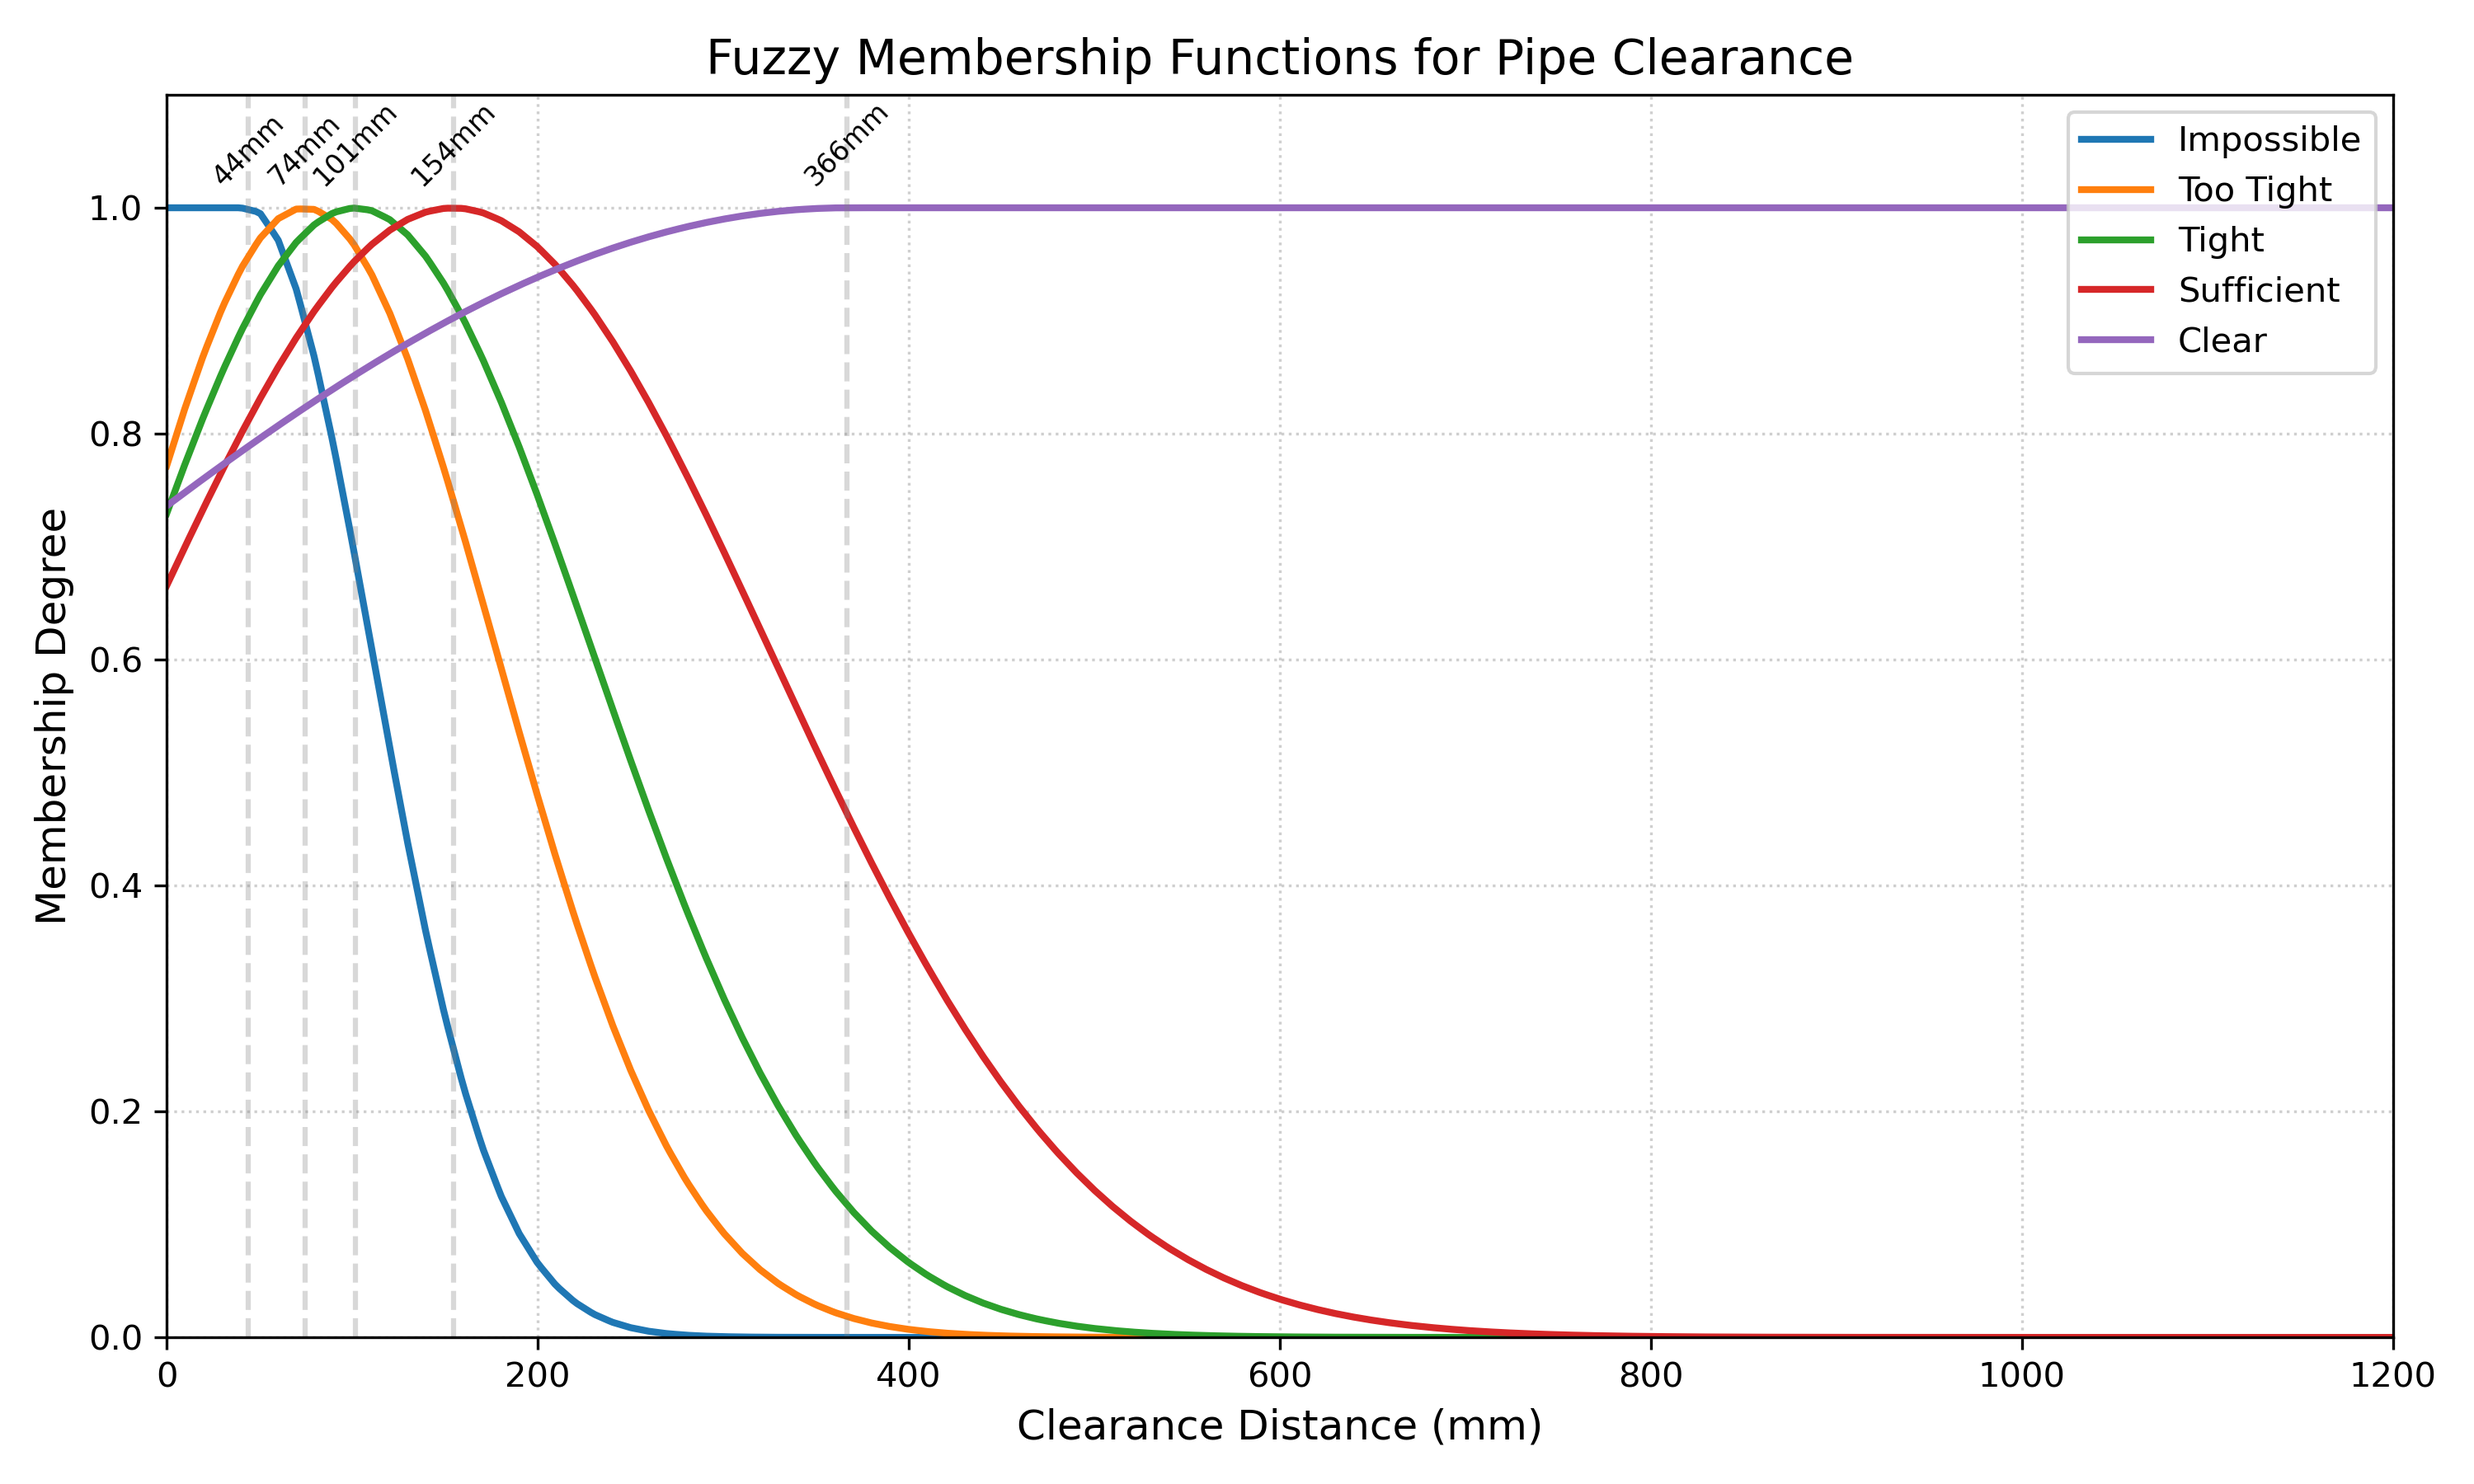
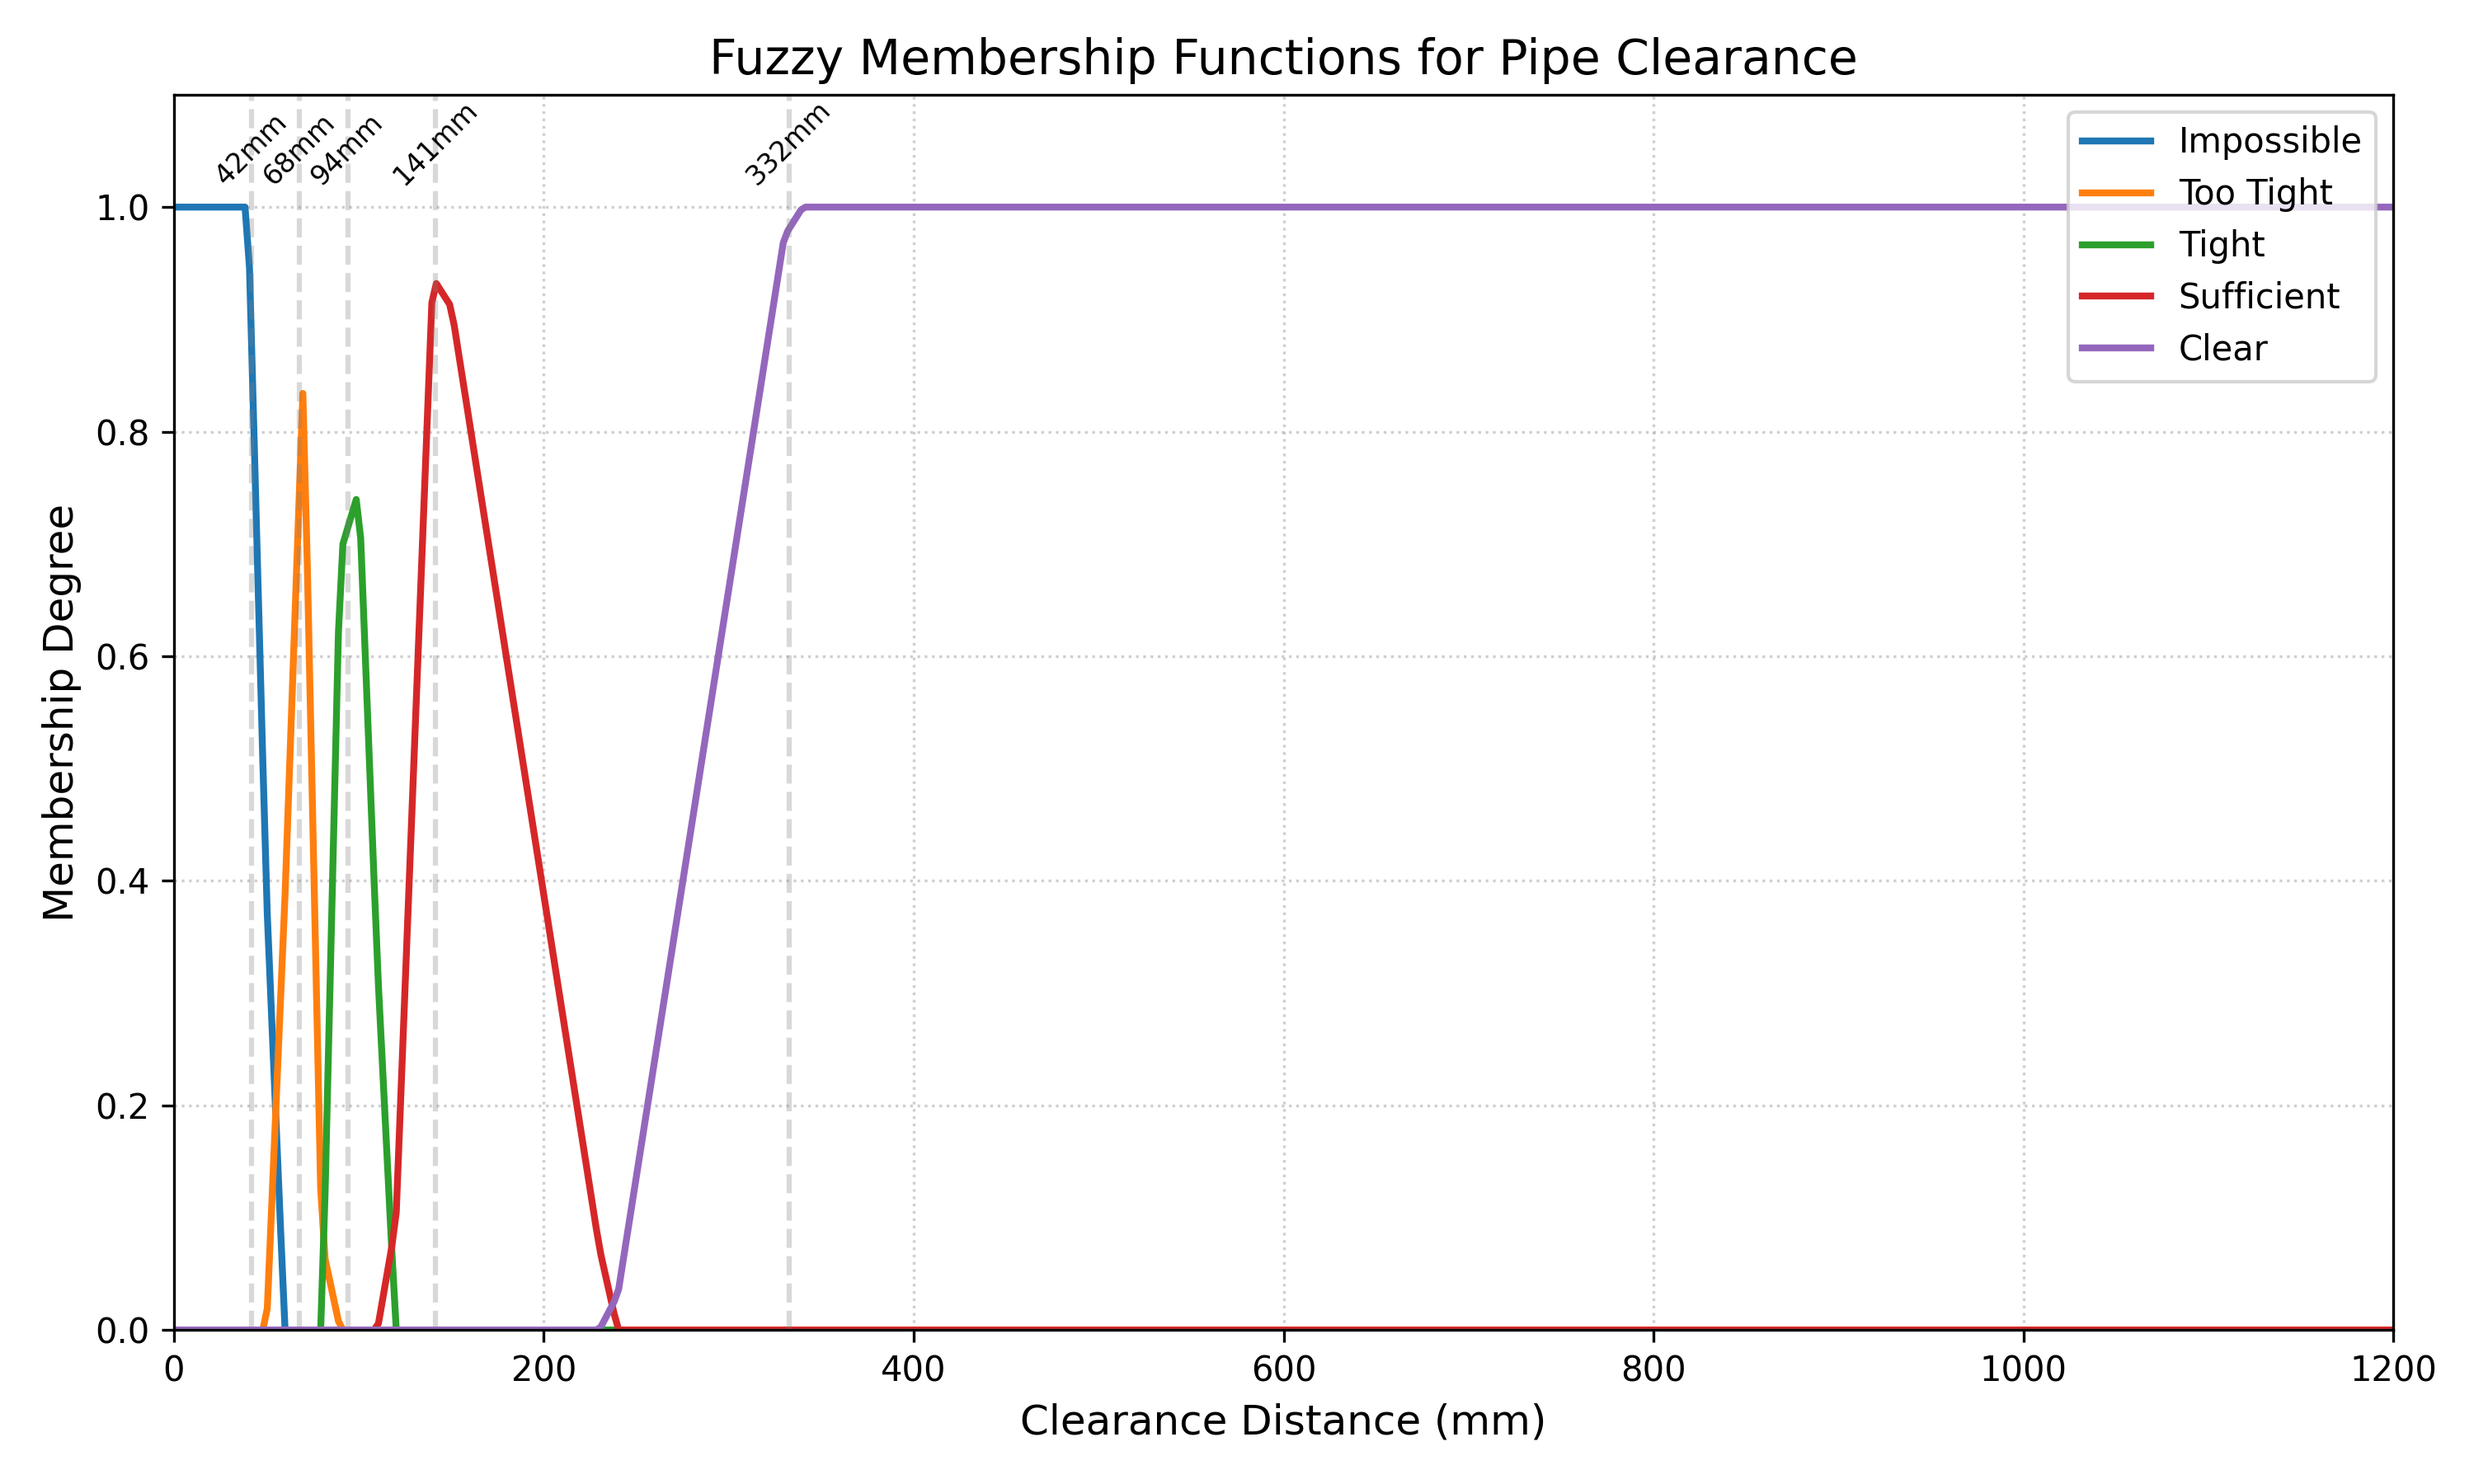
Raised limit from 3 to 50 for triangular transition to Gaussian

diff --git a/fuzzy_installability.py b/fuzzy_installability.py
@@ -179,7 +179,7 @@ class FuzzyInstallability:
             left  = self.min_val      if idx == 0     else (c[idx - 1] + c[idx]) / 2.0
             right = self.max_val - 1  if idx == n - 1 else (c[idx] + c[idx + 1]) / 2.0
 
-            if self.n_responses > 3 and self.stds[key] > 0:
+            if self.n_responses >= 50 and self.stds[key] > 0:
                 sigma = max(self.stds[key], 20.0)
                 mf = self._gaussmf(self.universe, center, sigma)
                 
@@ -281,7 +281,7 @@ class FuzzyInstallability:
         print("  FuzzyInstallability — Membership Function Summary")
         print("="*55)
         print(f"  Responses loaded : {self.n_responses}")
-        mf_type = "Gaussian" if self.n_responses > 3 else "Triangular"
+        mf_type = "Gaussian" if self.n_responses >= 50 else "Triangular"
         print(f"  Function type    : {mf_type}")
         print()
         print(f"  {'Category':<12}  {'Center (mm)':>12}  {'Multiplier':>10}  {'Score':>6}")
